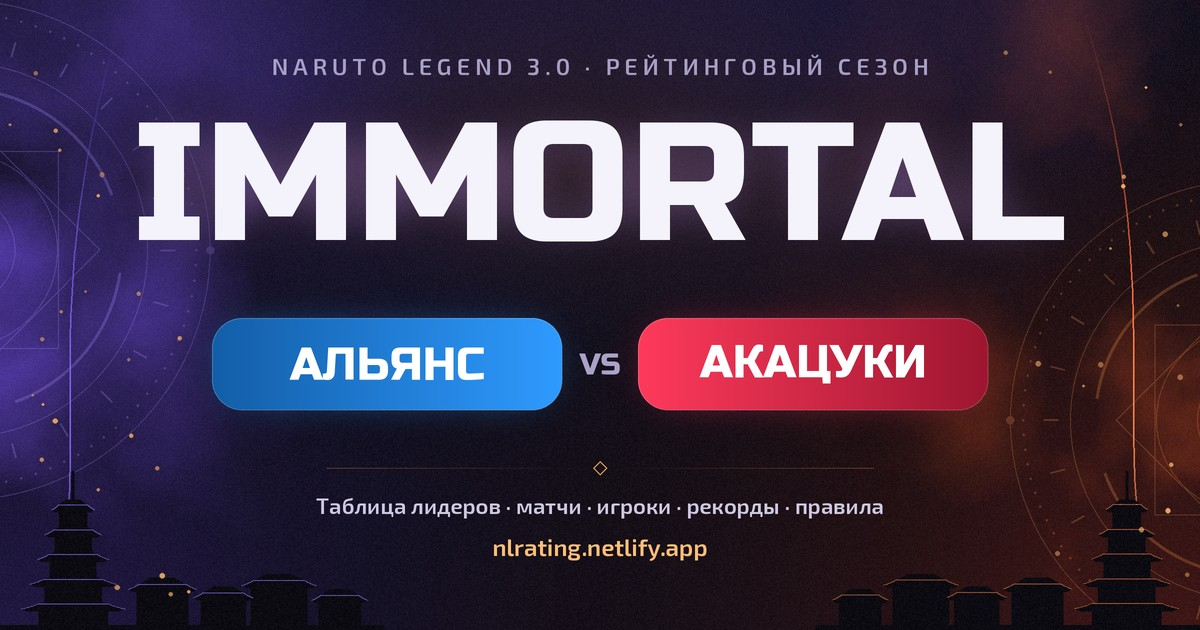
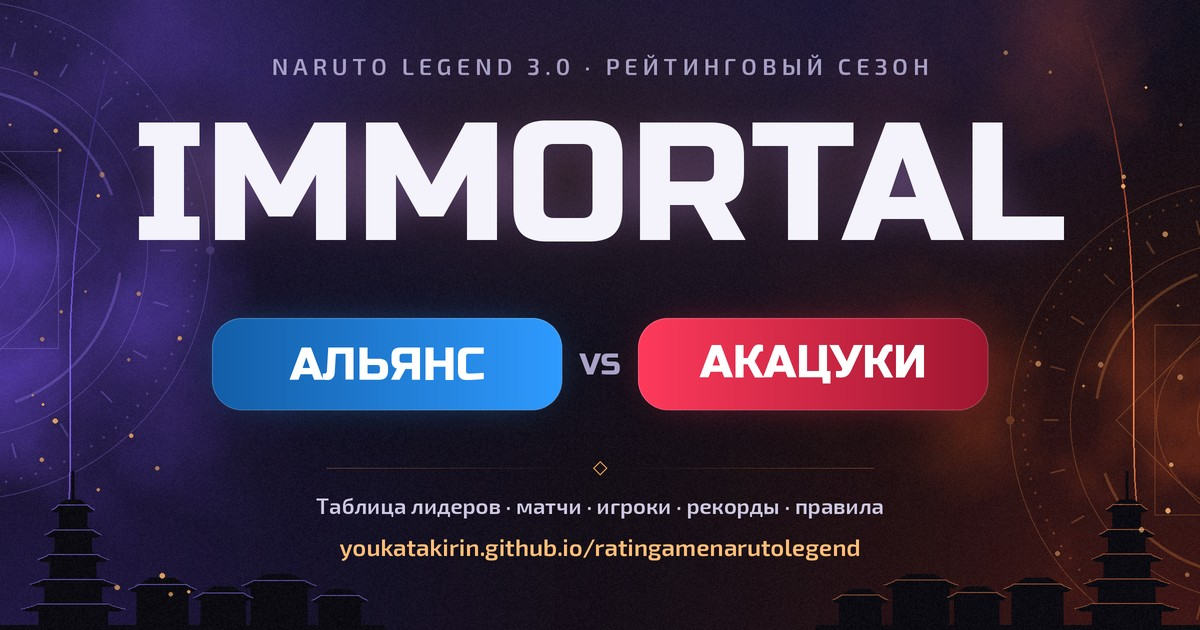
Переезд на GitHub Pages: старый адрес Netlify переадресует на новый
- .nojekyll: GitHub Pages отдаёт файлы как есть
- netlify.toml: все пути nlrating.netlify.app → youkatakirin.github.io/ratingamenarutolegend (301),
  сборки на Netlify пропускаются, пока не меняется netlify.toml
- Превью ссылки, og-теги и карточки итогов с новым адресом

Claude-Session: https://claude.ai/code/session_01XyxGTs6rFGvffekRh2RAPH

Changed region(s): [[0.2775, 0.8444, 0.7092, 0.9048]]

diff --git a/index.html b/index.html
@@ -8,13 +8,13 @@
 <meta property="og:description" content="Таблица лидеров, матчи со скриншотами, профили игроков и рекорды сезона.">
 <meta property="og:type" content="website">
 <meta property="og:site_name" content="Рейтинг Immortal">
-<meta property="og:url" content="https://nlrating.netlify.app/">
-<meta property="og:image" content="https://nlrating.netlify.app/og.jpg">
+<meta property="og:url" content="https://youkatakirin.github.io/ratingamenarutolegend/">
+<meta property="og:image" content="https://youkatakirin.github.io/ratingamenarutolegend/og.jpg">
 <meta property="og:image:width" content="1200">
 <meta property="og:image:height" content="630">
 <meta property="og:image:alt" content="IMMORTAL — рейтинг Naruto Legend 3.0, Альянс против Акацуки">
 <meta name="twitter:card" content="summary_large_image">
-<meta name="twitter:image" content="https://nlrating.netlify.app/og.jpg">
+<meta name="twitter:image" content="https://youkatakirin.github.io/ratingamenarutolegend/og.jpg">
 <meta name="theme-color" content="#07090f">
 <title>Рейтинг Immortal</title>
 <link rel="preconnect" href="https://fonts.googleapis.com">

diff --git a/tools/make_card.py b/tools/make_card.py
@@ -266,7 +266,7 @@ def draw_card(m, out_path, eff=None):
     d.line([(M, fy), (s(W) - M, fy)], fill=LINE, width=S)
     bans = m.get("bans") or []
     left = ("Бан на следующие игры: " + " · ".join(bans)) if bans else (m.get("note") or "")
-    url = "nlrating.netlify.app"
+    url = "youkatakirin.github.io/ratingamenarutolegend"
     uw = d.textlength(url, font=F_SMALL)
     d.text((M, fy + s(24)), fit(d, left, F_SMALL, s(W) - 2 * M - uw - s(30)), font=F_SMALL, fill=SOFT)
     d.text((s(W) - M - uw, fy + s(24)), url, font=F_SMALL, fill=MUTED)

diff --git a/tools/make_og.py b/tools/make_og.py
@@ -287,7 +287,7 @@ def main(out):
     d = ImageDraw.Draw(img)
     line1 = "Таблица лидеров · матчи · игроки · рекорды · правила"
     d.text(((W - d.textlength(line1, font=foot)) / 2, 492 * S), line1, font=foot, fill=(206, 200, 226))
-    url = "nlrating.netlify.app"
+    url = "youkatakirin.github.io/ratingamenarutolegend"
     d.text(((W - d.textlength(url, font=url_f)) / 2, 532 * S), url, font=url_f, fill=(255, 190, 120))
 
     final = img.convert("RGB").resize((1200, 630), Image.LANCZOS)

diff --git a/README.md b/README.md
@@ -16,6 +16,7 @@
 - Бан вне матча — запись в `penalties`: `{date, p, reason, rule}` (+ `days` / `points` при необходимости).
 - Герои круга и позора (пункт 8.3) — `circle: [{fromGame, heroes: [...], shame: [...]}]`.
 - `og.jpg` — картинка для превью ссылки, рисуется `python3 tools/make_og.py og.jpg`.
-- `netlify.toml` — настройки Netlify, сборка не нужна.
+- Сайт публикует GitHub Pages: https://youkatakirin.github.io/ratingamenarutolegend/ — обновляется сам после каждого push в main. `.nojekyll` отключает обработку Jekyll.
+- `netlify.toml` — старый адрес nlrating.netlify.app переадресует на GitHub Pages; сборки на Netlify пропускаются, если этот файл не менялся.
 
 Очки: победа +20, поражение −20, круг/челлендж +10, стрик/бонус +10, позор/пред −10, бан −20.
